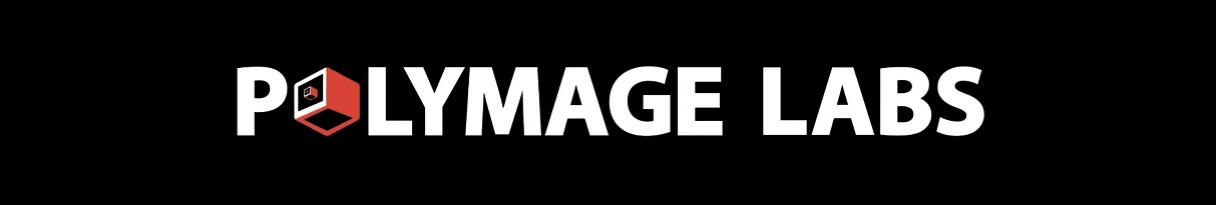
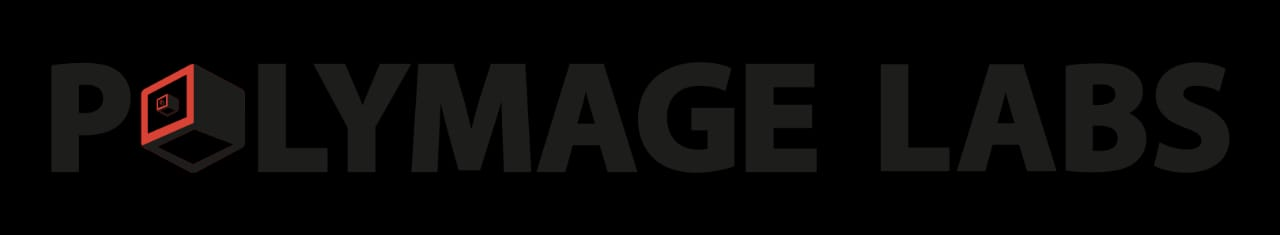
Added some more mods

Changed region(s): [[0.0312, 0.2634, 0.9688, 0.7317]]

diff --git a/index.html b/index.html
@@ -242,12 +242,15 @@
                                 <p class="float-right"><strong>Speaker:</strong> Prof. Murali Annavaram</p>
                                 <p class="float-right"><strong>Topic:</strong>  How do recommendation systems work? And, what are their privacy implications? </p>
                                 <p class="float-right"><strong>Venue:</strong> CSA 254 </p>
-
+                                <div class="portfolio-item mx-auto" data-bs-toggle="modal" data-bs-target="#keynote1modal">
+                                    <u style="color: rgb(103, 80, 164); " ><a style="color: rgb(103, 80, 164); ">Details</a></u>
+                                </div>
+                            
                                 <p></p>
                             </li>
                             <li>
                                 <h4 style="color: rgb(103, 80, 164);">10am - 11am</h4><br/>
-                                <p class="float-right">Virtual Treasure Hunt(Filtering Round)</p>
+                                <p class="float-right">Virtual Treasure Hunt (Filtering Round)</p>
                                 <p class="float-right"><strong>Venue:</strong> Registration Desk </p>
                             </li>
                             <li>
@@ -281,6 +284,9 @@
                                 <p class="float-right"><strong>Speaker:</strong> Radhika Dua</p>
                                 <p class="float-right"><strong>Topic:</strong>  Towards Sustainable Agriculture prioritizing Global South using Machine Learning </p>
                                 <p class="float-right"><strong>Venue:</strong> CSA 254 </p>
+                                <div class="portfolio-item mx-auto" data-bs-toggle="modal" data-bs-target="#keynote2modal">
+                                    <u style="color: rgb(103, 80, 164); " ><a style="color: rgb(103, 80, 164); ">Details</a></u>
+                                </div>
                             </li>
 
                             <li>
@@ -292,9 +298,12 @@
 
                             <li>
                                 <h4 style="color: rgb(103, 80, 164);">4:00pm - 5:00pm</h4><br/>
-                                <p class="float-right">Let's Code Music!</a></p>
+                                <p class="float-right">Let's Code Music: Understanding Programming Language Design through Music</p>
+                                <p class="float-right"><strong>Speaker:</strong> Stanly Samuel </p>          
                                 <p class="float-right"><strong>Venue:</strong> CSA 254 </p>
-                                <p></p>
+                                <div class="portfolio-item mx-auto" data-bs-toggle="modal" data-bs-target="#eventletscodemusicmodal">
+                                    <u style="color: rgb(103, 80, 164); " ><a style="color: rgb(103, 80, 164); ">Details</a></u>
+                                </div>
                             </li>
                            
                         </ul>
@@ -405,7 +414,7 @@
 
                     <div class="row justify-content-center">
                         <div class="col-md-6 col-lg-4 mb-5">
-                            <img class="img-fluid" src="assets/img/sponsors/qpiai.png" alt="..." />
+                            <a href="https://qpiai.tech/"><img class="img-fluid" src="assets/img/sponsors/qpiai.png" alt="..." /></a>
                             <br>
                     </div>
                     <br>
@@ -416,7 +425,7 @@
 
                     <div class="row justify-content-center">
                         <div class="col-md-6 col-lg-4 mb-5">
-                            <img class="img-fluid"  style="width:150%" src="assets/img/sponsors/polymage.jpeg" alt="..." />
+                           <a href="https://www.polymagelabs.com/"><img class="img-fluid"  style="width:150%" src="assets/img/sponsors/polymage.png" alt="..." /></a>
                             <br>
                     </div>
                 </div>
@@ -655,13 +664,6 @@
                                     <p style="text-align: left;">The talk revolves around the design of a programming language called Chuck. Chuck code when executed plays music as per the programmer's specification. The key takeaway is to understand how the Chuck programming language is designed, what it essentially takes to design a programming language for the domain of music, and consequently opening up the discussion for designing languages for any domain. </p>
                                     <h4 class="mb-4" style="text-align: left;">Target Audience Skill Level</h4>
                                     <p style="text-align: left;">No prior experience is necessary for music. Basic programming experience is preferred, but not necessary.</p>
-
-                                    <h4 class="mb-4" style="text-align: left;">Contact</h4>
-                                    <ul class="mb-4">
-                                        <li style="text-align: left;">Stanly Samuel <a href="tel:9819167755">9819167755</a></strong></li>
-                                    </ul>
-
-
                                 </div>
                             </div>
                         </div>
